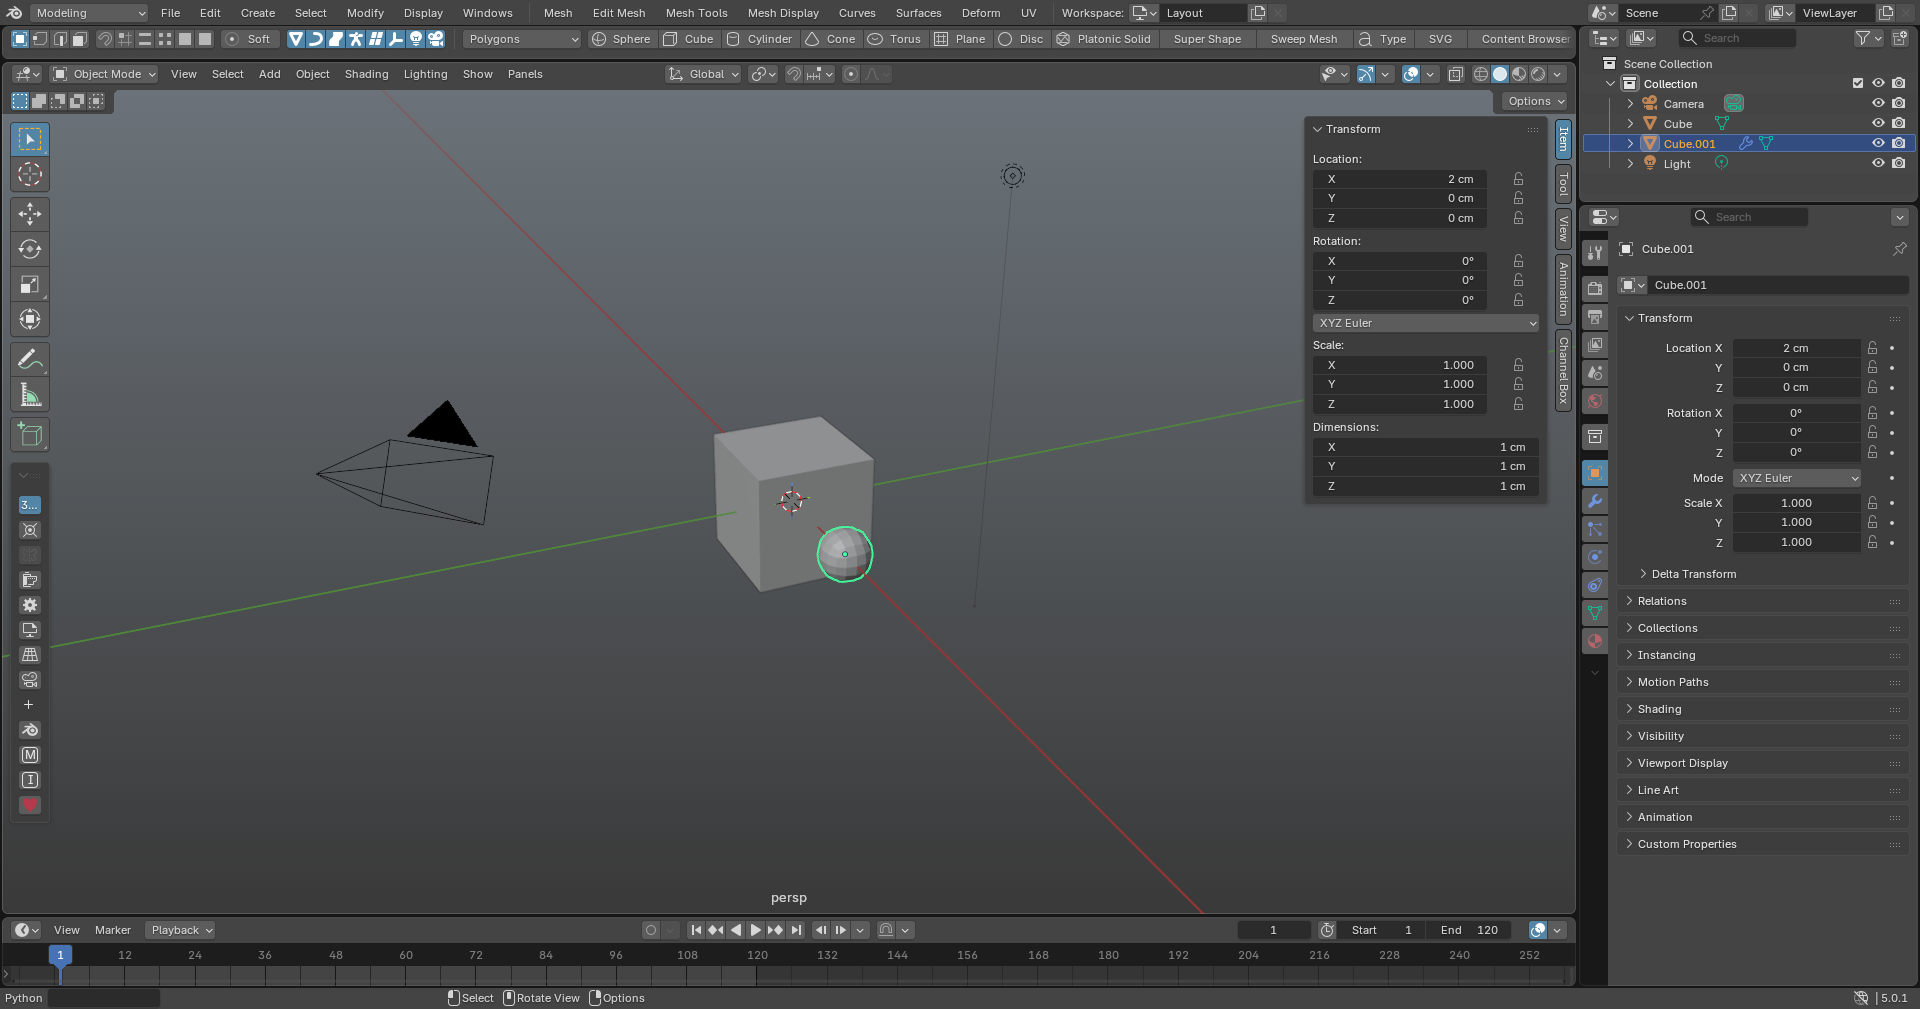
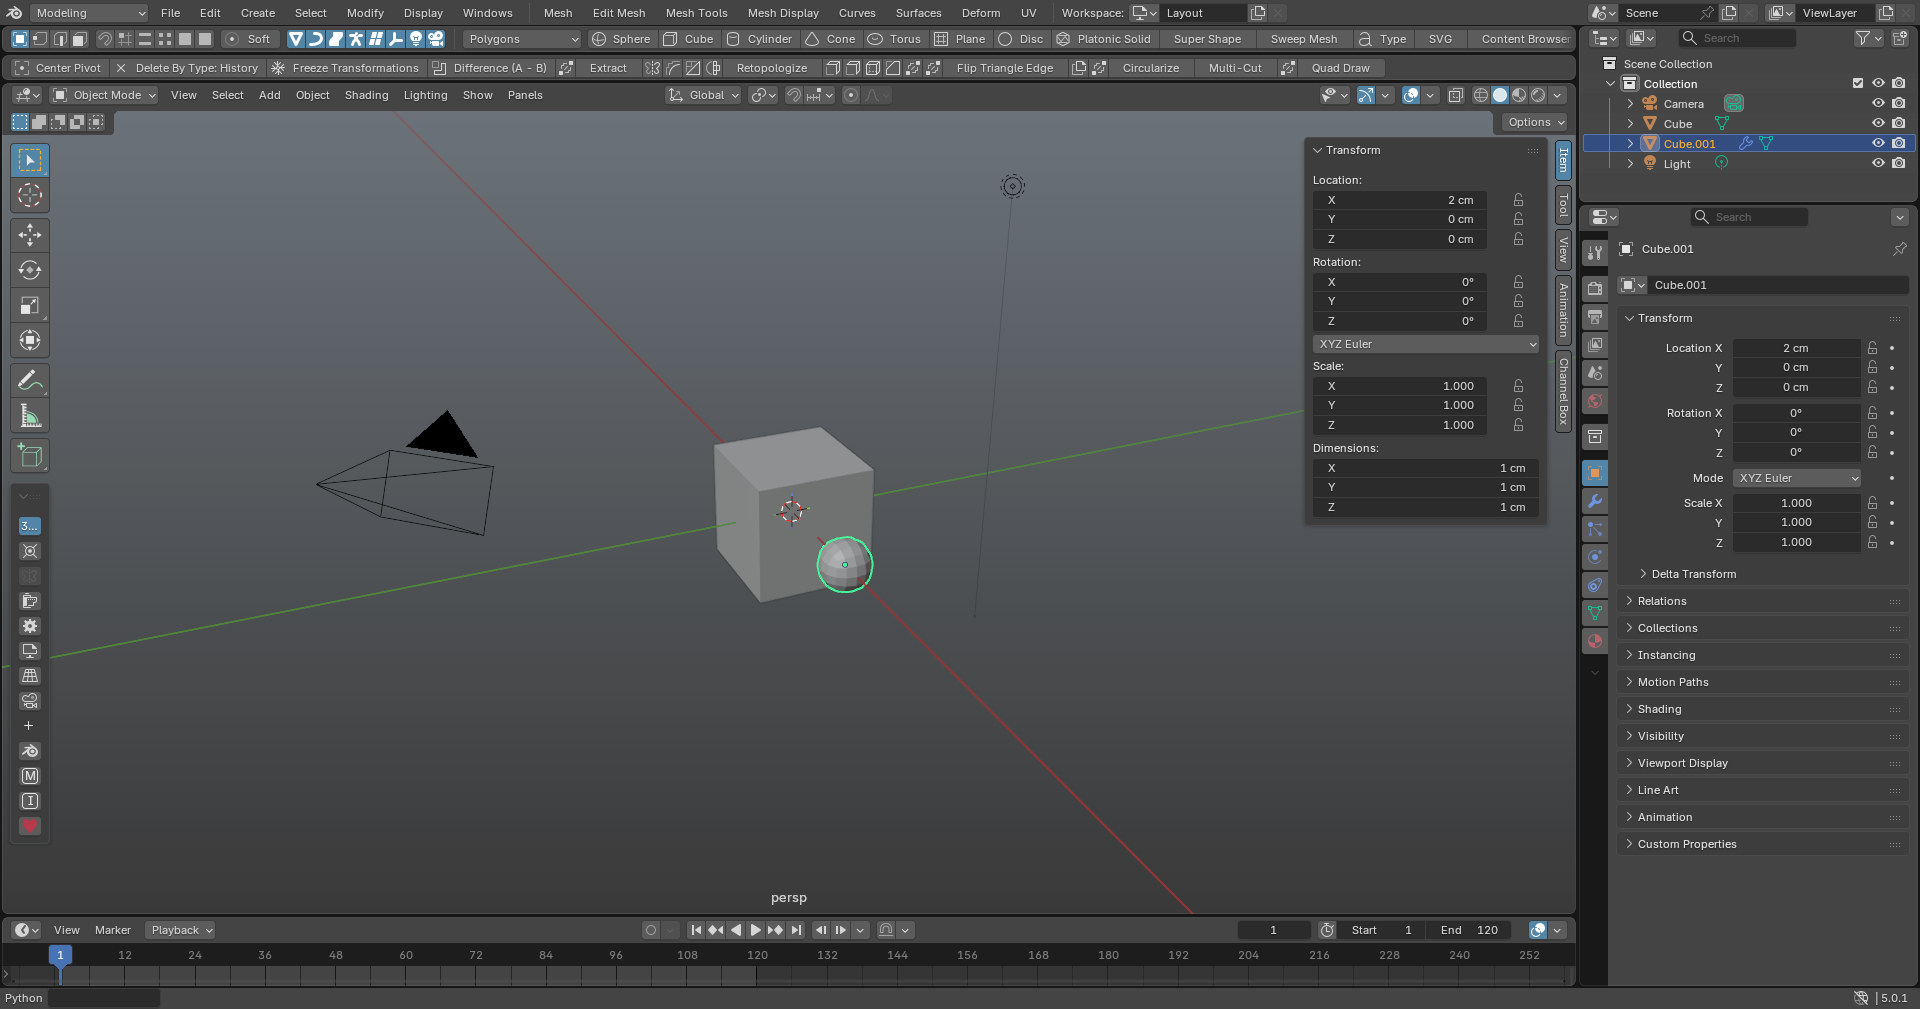
Two-row shelf: creation buttons on row 1, editing / clean-up on row 2
- Maya Layout stacks two thin shelf strips above the viewport
- row 1: status line, shelf tab, creation buttons; row 2: the rest
  (Center Pivot, Delete History, Freeze, Booleans, Combine ...)
- a row that would overflow collapses buttons to icons from the right
- map remaining Polygons-shelf buttons (Bridge, Bevel, Multi-Cut,
  Quad Draw)

diff --git a/addon/maya_mode/maya_menus.py b/addon/maya_mode/maya_menus.py
@@ -383,39 +383,99 @@ def _shelf_label(label):
     return label.strip() or label
 
 
-def draw_shelf(layout, context):
+# Shelf buttons that create something go on the first shelf row.
+CREATE_TOOLS = {"EPCurveTool", "CVCurveTool", "PencilCurveTool", "ThreePointArcTool",
+                "TwoPointArcTool", "OpenContentBrowser", "NCreateEmitter"}
+
+
+def _is_create(command):
+    return command.startswith("Create") or command in CREATE_TOOLS
+
+
+def shelf_rows(buttons):
+    """Split a shelf into (row 1, row 2): creation buttons on top, the
+    editing / clean-up buttons below. Shelves without creation buttons are
+    split in half."""
+    create = [b for b in buttons if _is_create(b[1])]
+    rest = [b for b in buttons if not _is_create(b[1])]
+    if not create:
+        half = (len(rest) + 1) // 2
+        create, rest = rest[:half], rest[half:]
+    return create, rest
+
+
+def _current_shelf(context):
     wm = context.window_manager
-    sub = layout.row()
-    sub.ui_units_x = 6
-    sub.prop(wm, "maya_shelf", text="")
+    return next((b for name, b in SHELVES if name == wm.maya_shelf), [])
+
+
+def draw_shelf_buttons(layout, context, buttons, width):
+    """Draw shelf buttons; when the row would not fit in `width` pixels,
+    buttons that have an icon collapse to the icon (tooltip keeps the name)."""
+    scale = context.preferences.system.ui_scale
+    labels = [_shelf_label(label) for label, _cmd in buttons]
+    icons = [command_icon(cmd) if cmd in ACTIONS else 'NONE' for _l, cmd in buttons]
+    needed = sum((len(text) * 6.2 + 28) * scale for text in labels)
+    # Collapse only as many buttons to icons as needed, from the right end,
+    # so the first buttons of a row keep their names.
+    icon_only = set()
+    for i in reversed(range(len(buttons))):
+        if needed <= width:
+            break
+        if icons[i] != 'NONE':
+            icon_only.add(i)
+            needed -= len(labels[i]) * 6.2 * scale
     row = layout.row(align=True)
-    for name, buttons in SHELVES:
-        if name != wm.maya_shelf:
-            continue
-        for label, command in buttons:
-            available = command in ACTIONS
-            cell = row.row(align=True)
-            cell.enabled = available
-            op = cell.operator("maya.run", text=_shelf_label(label),
-                               icon=command_icon(command) if available else 'NONE')
-            op.command = command
-            op.label = label
+    for i, ((label, command), text) in enumerate(zip(buttons, labels)):
+        available = command in ACTIONS
+        icon = icons[i]
+        cell = row.row(align=True)
+        cell.enabled = available
+        op = cell.operator("maya.run", icon=icon, text="" if i in icon_only else text)
+        op.command = command
+        op.label = label
+
+
+def draw_shelf(layout, context, row_index=None, width=10000):
+    """row_index None: whole shelf on one line; 0 / 1: that shelf row."""
+    buttons = _current_shelf(context)
+    if row_index is None:
+        draw_shelf_buttons(layout, context, buttons, width)
+        return
+    draw_shelf_buttons(layout, context, shelf_rows(buttons)[row_index], width)
+
+
+def _shelf_strips(context):
+    """Thin Info areas used as shelf rows, top to bottom."""
+    screen = context.screen
+    strips = [a for a in screen.areas if a.type == 'INFO' and a.height < 80]
+    return sorted(strips, key=lambda a: -a.y)
 
 
 _original_info_draw = None
 
 
 def _info_header_draw(self, context):
-    """The thin Info strip above the viewport becomes the status line + shelf;
-    a normal-sized Info editor keeps its own header."""
+    """Thin Info strips above the viewport become the status line + shelf
+    (row 1: status line, shelf tab, creation buttons; row 2: everything
+    else). A normal-sized Info editor keeps its own header."""
     area = context.area
     is_strip = area is not None and area.height < 80
     if not (is_strip and _pref(context, "use_maya_shelf")):
         return _original_info_draw(self, context)
     layout = self.layout
-    draw_status_line(layout, context)
-    layout.separator(type='LINE')
-    draw_shelf(layout, context)
+    strips = _shelf_strips(context)
+    index = next((i for i, a in enumerate(strips) if a == area), 0)
+    if len(strips) < 2 or index == 0:
+        draw_status_line(layout, context)
+        layout.separator(type='LINE')
+        sub = layout.row()
+        sub.ui_units_x = 6
+        sub.prop(context.window_manager, "maya_shelf", text="")
+        used = 600 * context.preferences.system.ui_scale
+        draw_shelf(layout, context, None if len(strips) < 2 else 0, area.width - used)
+    else:
+        draw_shelf(layout, context, 1, area.width - 20)
 
 
 # --------------------------------------------------------------------------
@@ -683,20 +743,19 @@ class MAYA_OT_setup_layout(bpy.types.Operator):
             self.report({'WARNING'}, "No 3D viewport in this workspace")
             return {'CANCELLED'}
         view = max(views, key=lambda a: a.width * a.height)
-        # Shelf strip: a thin Info editor directly above the viewport.
-        strip = next((a for a in screen.areas if a.type == 'INFO' and a.height < 80
-                      and a.x == view.x and a.width == view.width), None)
-        if strip is None:
+        # Two shelf rows: thin Info editors stacked directly above the viewport.
+        strips = [a for a in screen.areas if a.type == 'INFO' and a.height < 80
+                  and a.x == view.x and a.width == view.width]
+        for _ in range(2 - len(strips)):
             before = set(screen.areas)
             region = next(r for r in view.regions if r.type == 'WINDOW')
             with context.temp_override(area=view, region=region):
-                bpy.ops.screen.area_split(direction='HORIZONTAL', factor=0.96)
+                bpy.ops.screen.area_split(direction='HORIZONTAL', factor=0.97)
             new = [a for a in screen.areas if a not in before]
             if new:
                 # The split's new area is the thin top part; its size fields
                 # aren't valid until the next redraw, so don't sort by them.
-                strip = new[0]
-                strip.ui_type = 'INFO'
+                new[0].ui_type = 'INFO'
         space = view.spaces.active
         space.show_region_ui = True
         space.show_region_toolbar = True

diff --git a/tests/test_addon.py b/tests/test_addon.py
@@ -352,9 +352,17 @@ def test_theme_status_shelf():
     wire = tuple(round(c, 3) for c in bpy.context.preferences.themes[0].view_3d.wire)
     check("Maya theme applied", wire == (0.0, 0.016, 0.376), str(wire))
     maya_menus.draw_status_line(_FakeLayout(errors), bpy.context)
-    for name, _buttons in maya_menus.SHELVES:
+    for name, buttons in maya_menus.SHELVES:
         bpy.context.window_manager.maya_shelf = name
-        maya_menus.draw_shelf(_FakeLayout(errors), bpy.context)
+        for row in (None, 0, 1):
+            maya_menus.draw_shelf(_FakeLayout(errors), bpy.context, row, 400)
+        top, bottom = maya_menus.shelf_rows(buttons)
+        if len(top) + len(bottom) != len(buttons):
+            errors.append(f"{name}: shelf rows lose buttons")
+    top, bottom = maya_menus.shelf_rows(dict(maya_menus.SHELVES)["Polygons"])
+    check("Polygons shelf: creation on row 1, Freeze/History/Pivot on row 2",
+          all(c.startswith("Create") or c == "OpenContentBrowser" for _l, c in top)
+          and {"CenterPivot", "DeleteHistory", "FreezeTransformations"} <= {c for _l, c in bottom})
     check("status line and all shelves draw", not errors, "; ".join(sorted(set(errors))[:20]))
     bpy.ops.preferences.reset_default_theme()
 

diff --git a/addon/maya_mode/actions.py b/addon/maya_mode/actions.py
@@ -712,6 +712,13 @@ ACTIONS.update({
     "SetMeshGrabUVTool": W("UV"),
     "SetCutSewUVTool": W("UV"),
     "HypergraphWindow": W("OUTLINER"),
+    "performBridgeOrFill": O("mesh.bridge_edge_loops"),
+    "performBevelOrChamfer": O("maya.bevel"),
+    "dR_multiCutTool": O("maya.mesh_tool", tool='KNIFE'),
+    "dR_quadDrawTool": O("maya.mesh_tool", tool='POLY_BUILD'),
+    "TumbleTool": O("view3d.view_orbit", type='ORBITRIGHT'),
+    "Delete": OE(O("object.delete", use_global=False, confirm=False),
+                 O("maya.delete_components", clean=True)),
     "Help": O("wm.url_open_preset", type='MANUAL'),
 })
 
